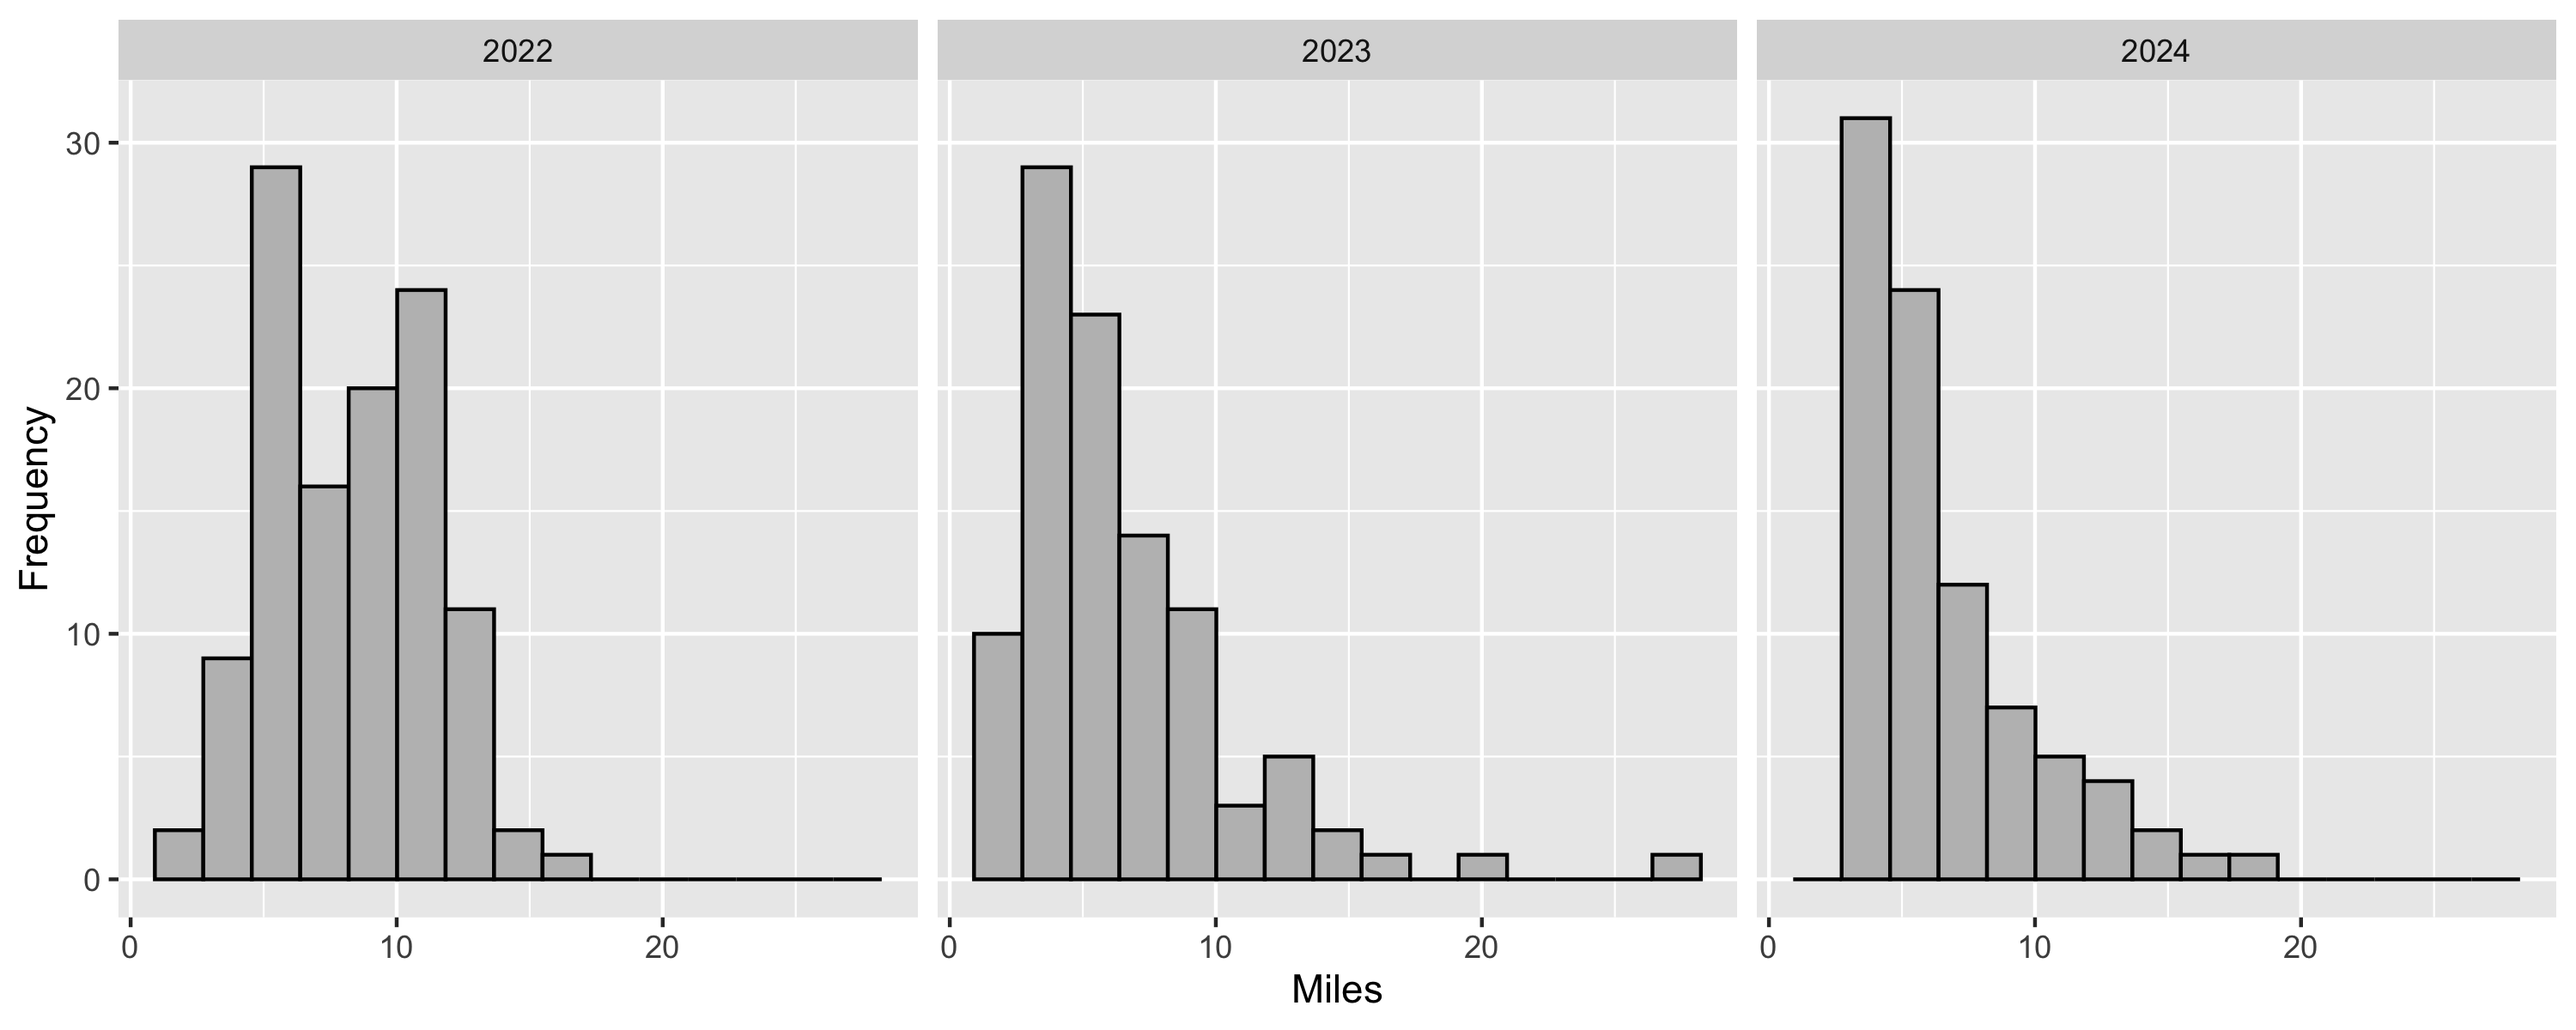
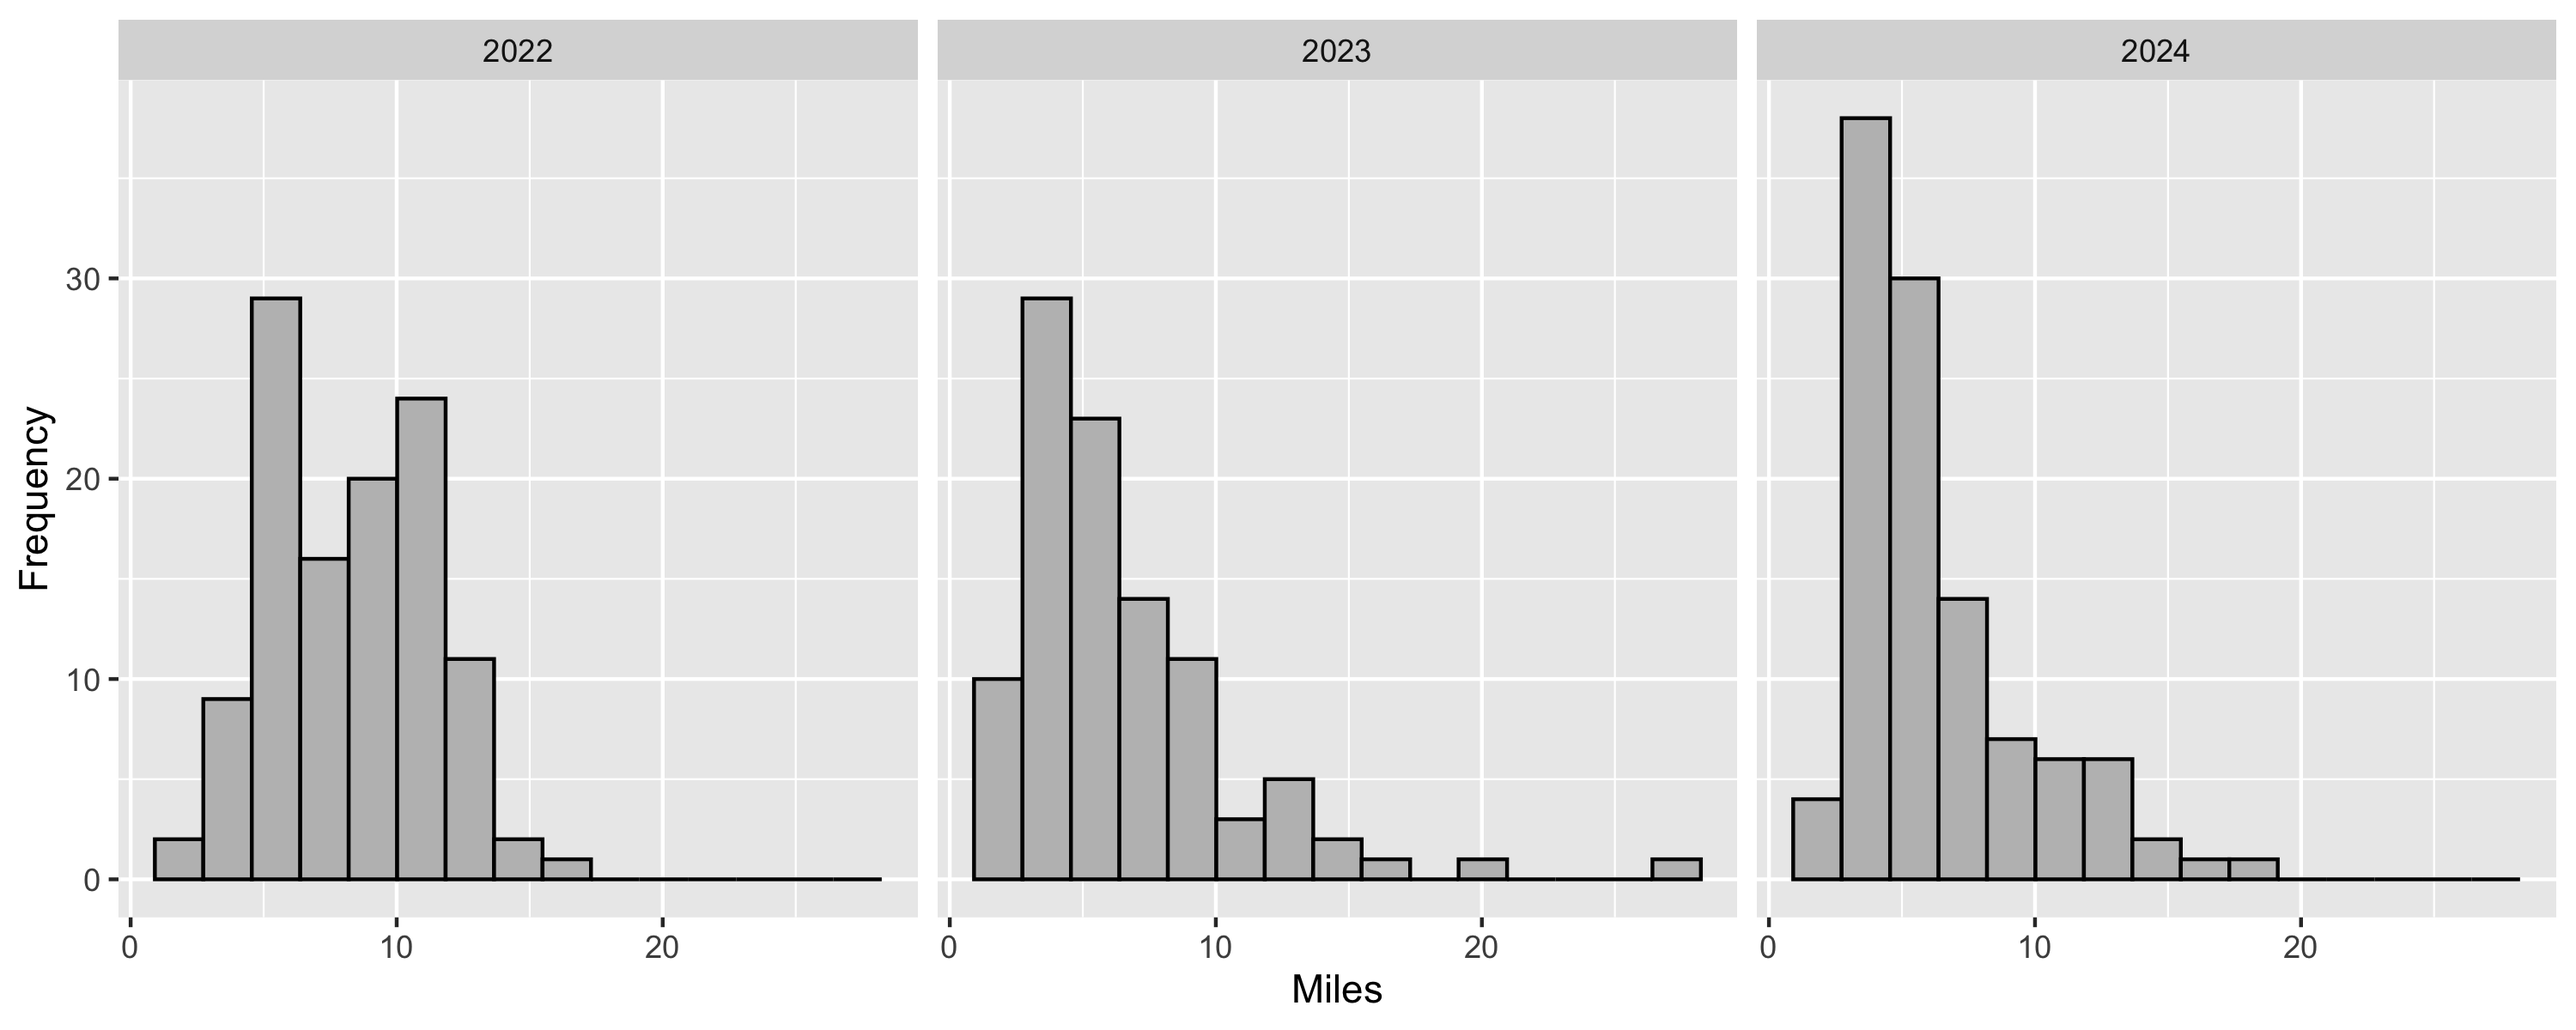
8/21/24 - 9/24/24

diff --git a/README.md b/README.md
@@ -41,7 +41,7 @@ Total miles since 11/29/21:
 sum(runningData$Miles)
 ```
 
-    ## [1] 2220.94
+    ## [1] 2333.38
 
 Average distance over last ten runs:
 
@@ -49,4 +49,4 @@ Average distance over last ten runs:
 mean(tail(runningData$Miles, 10))
 ```
 
-    ## [1] 5.353
+    ## [1] 5.007
